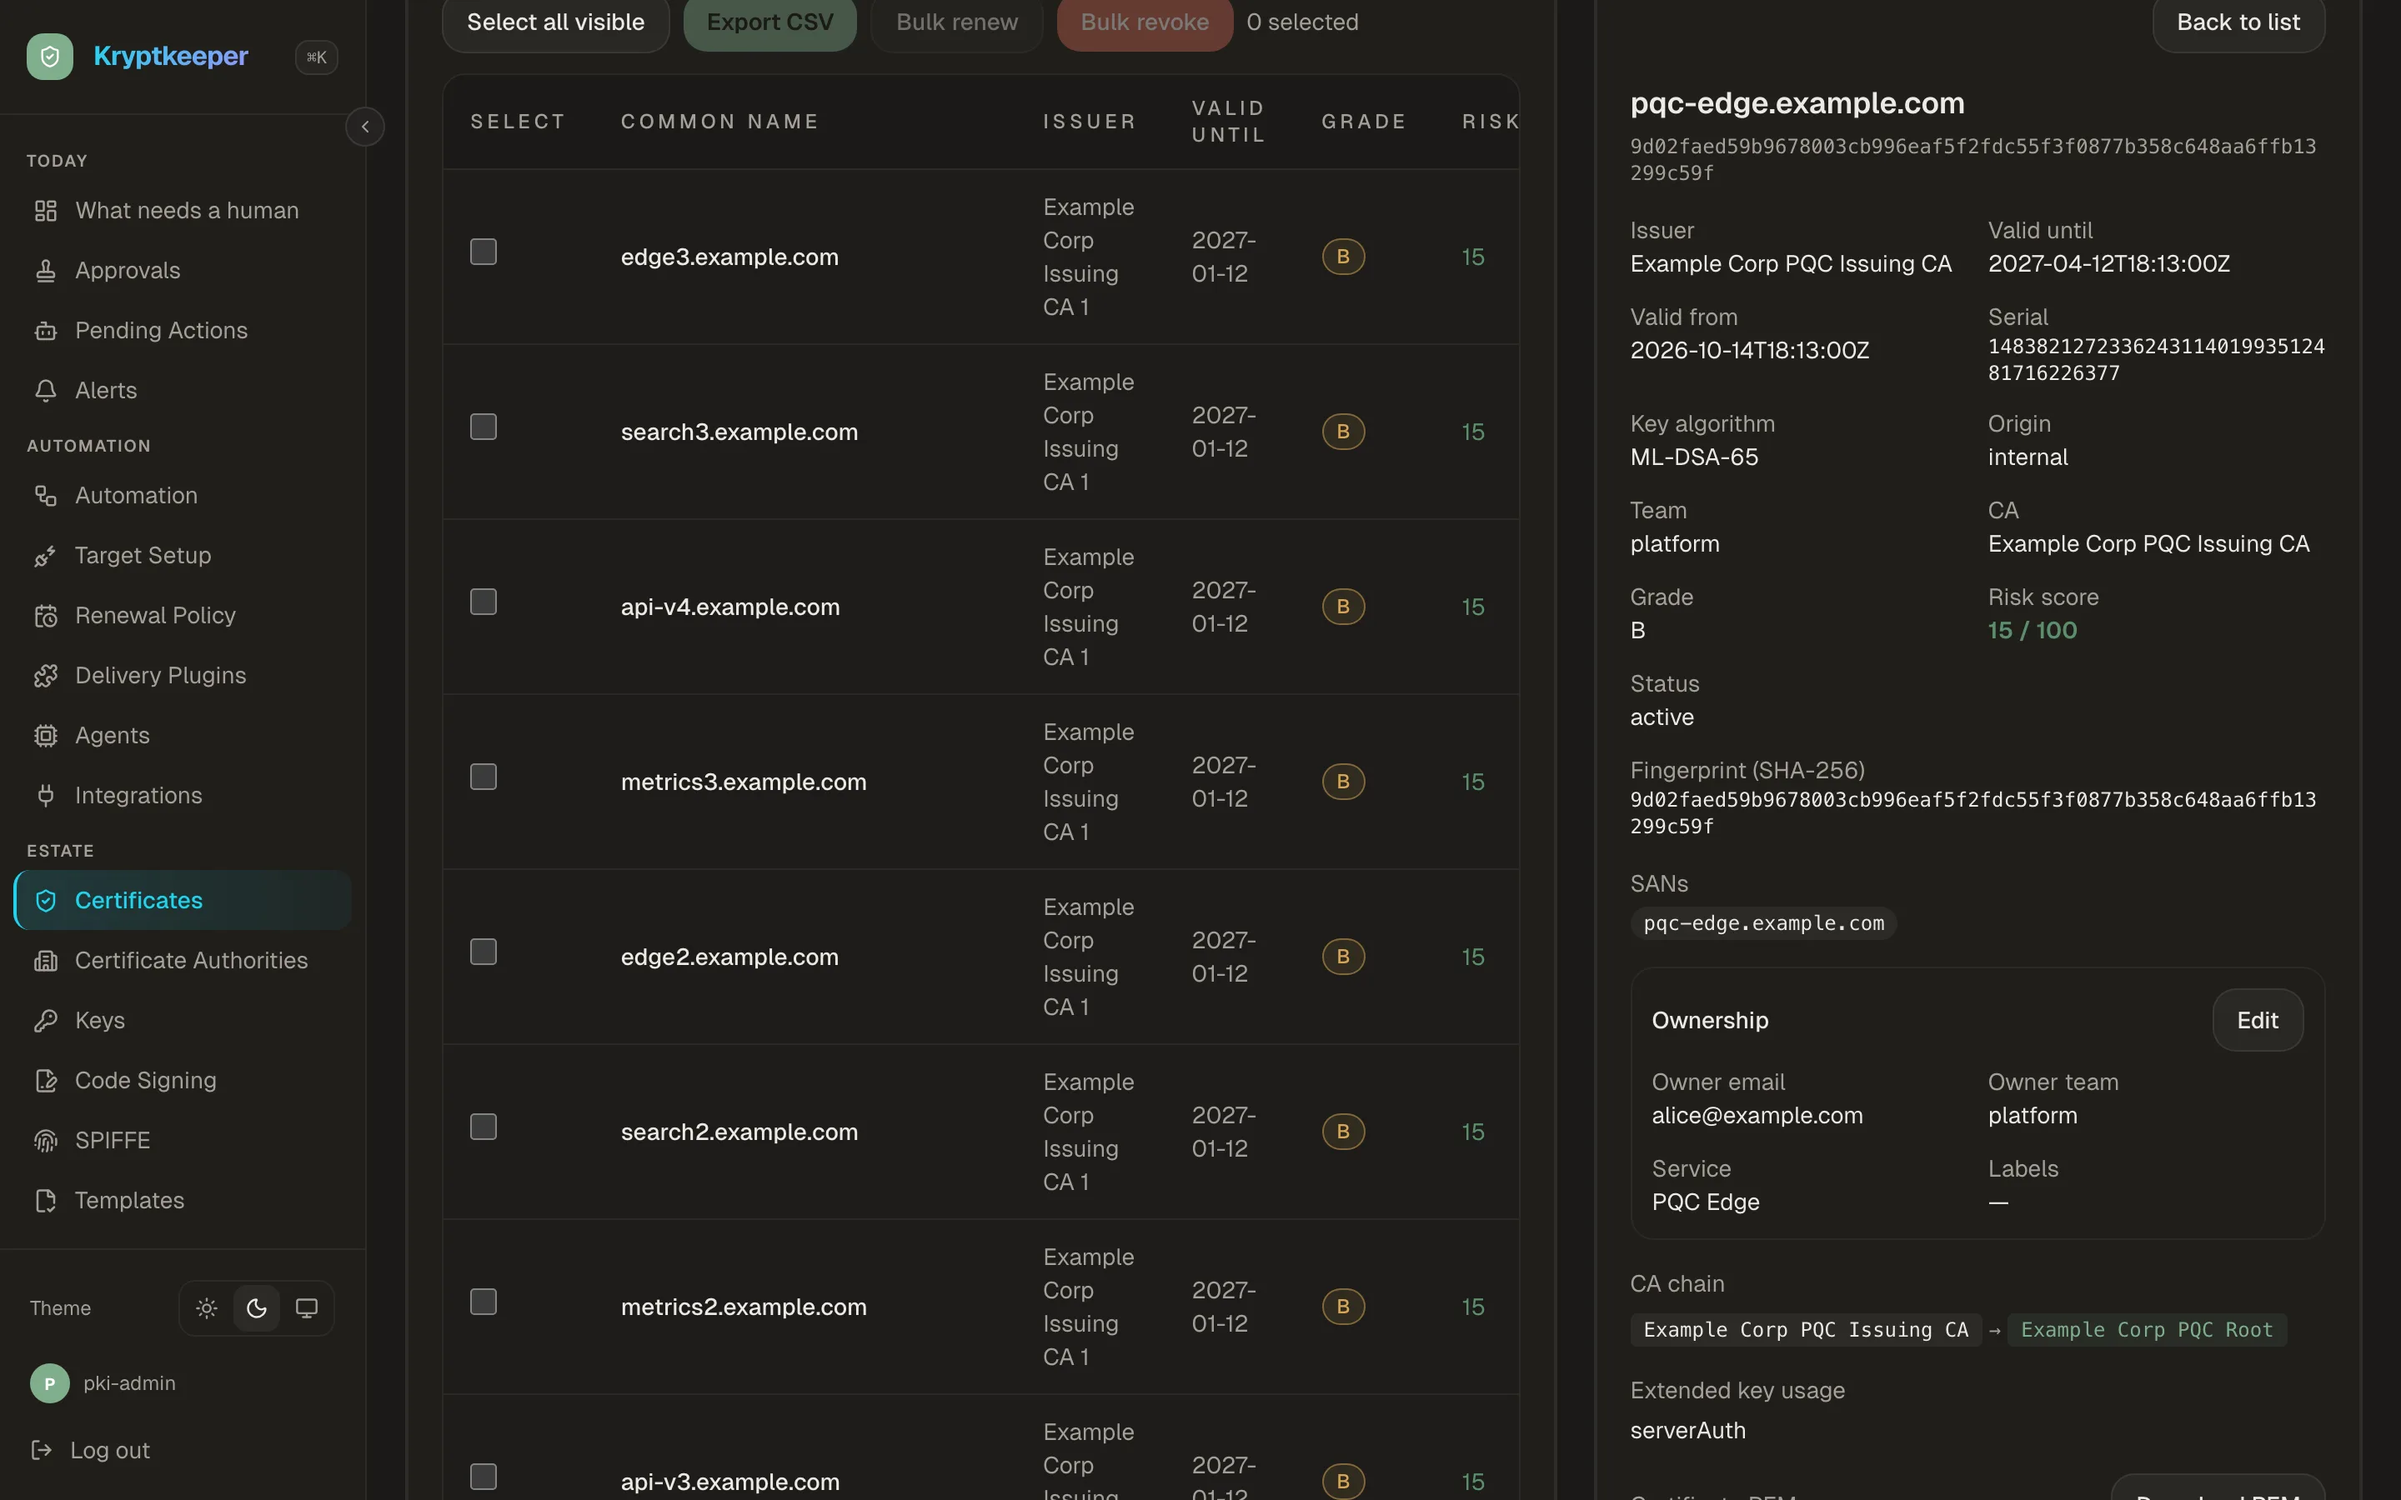
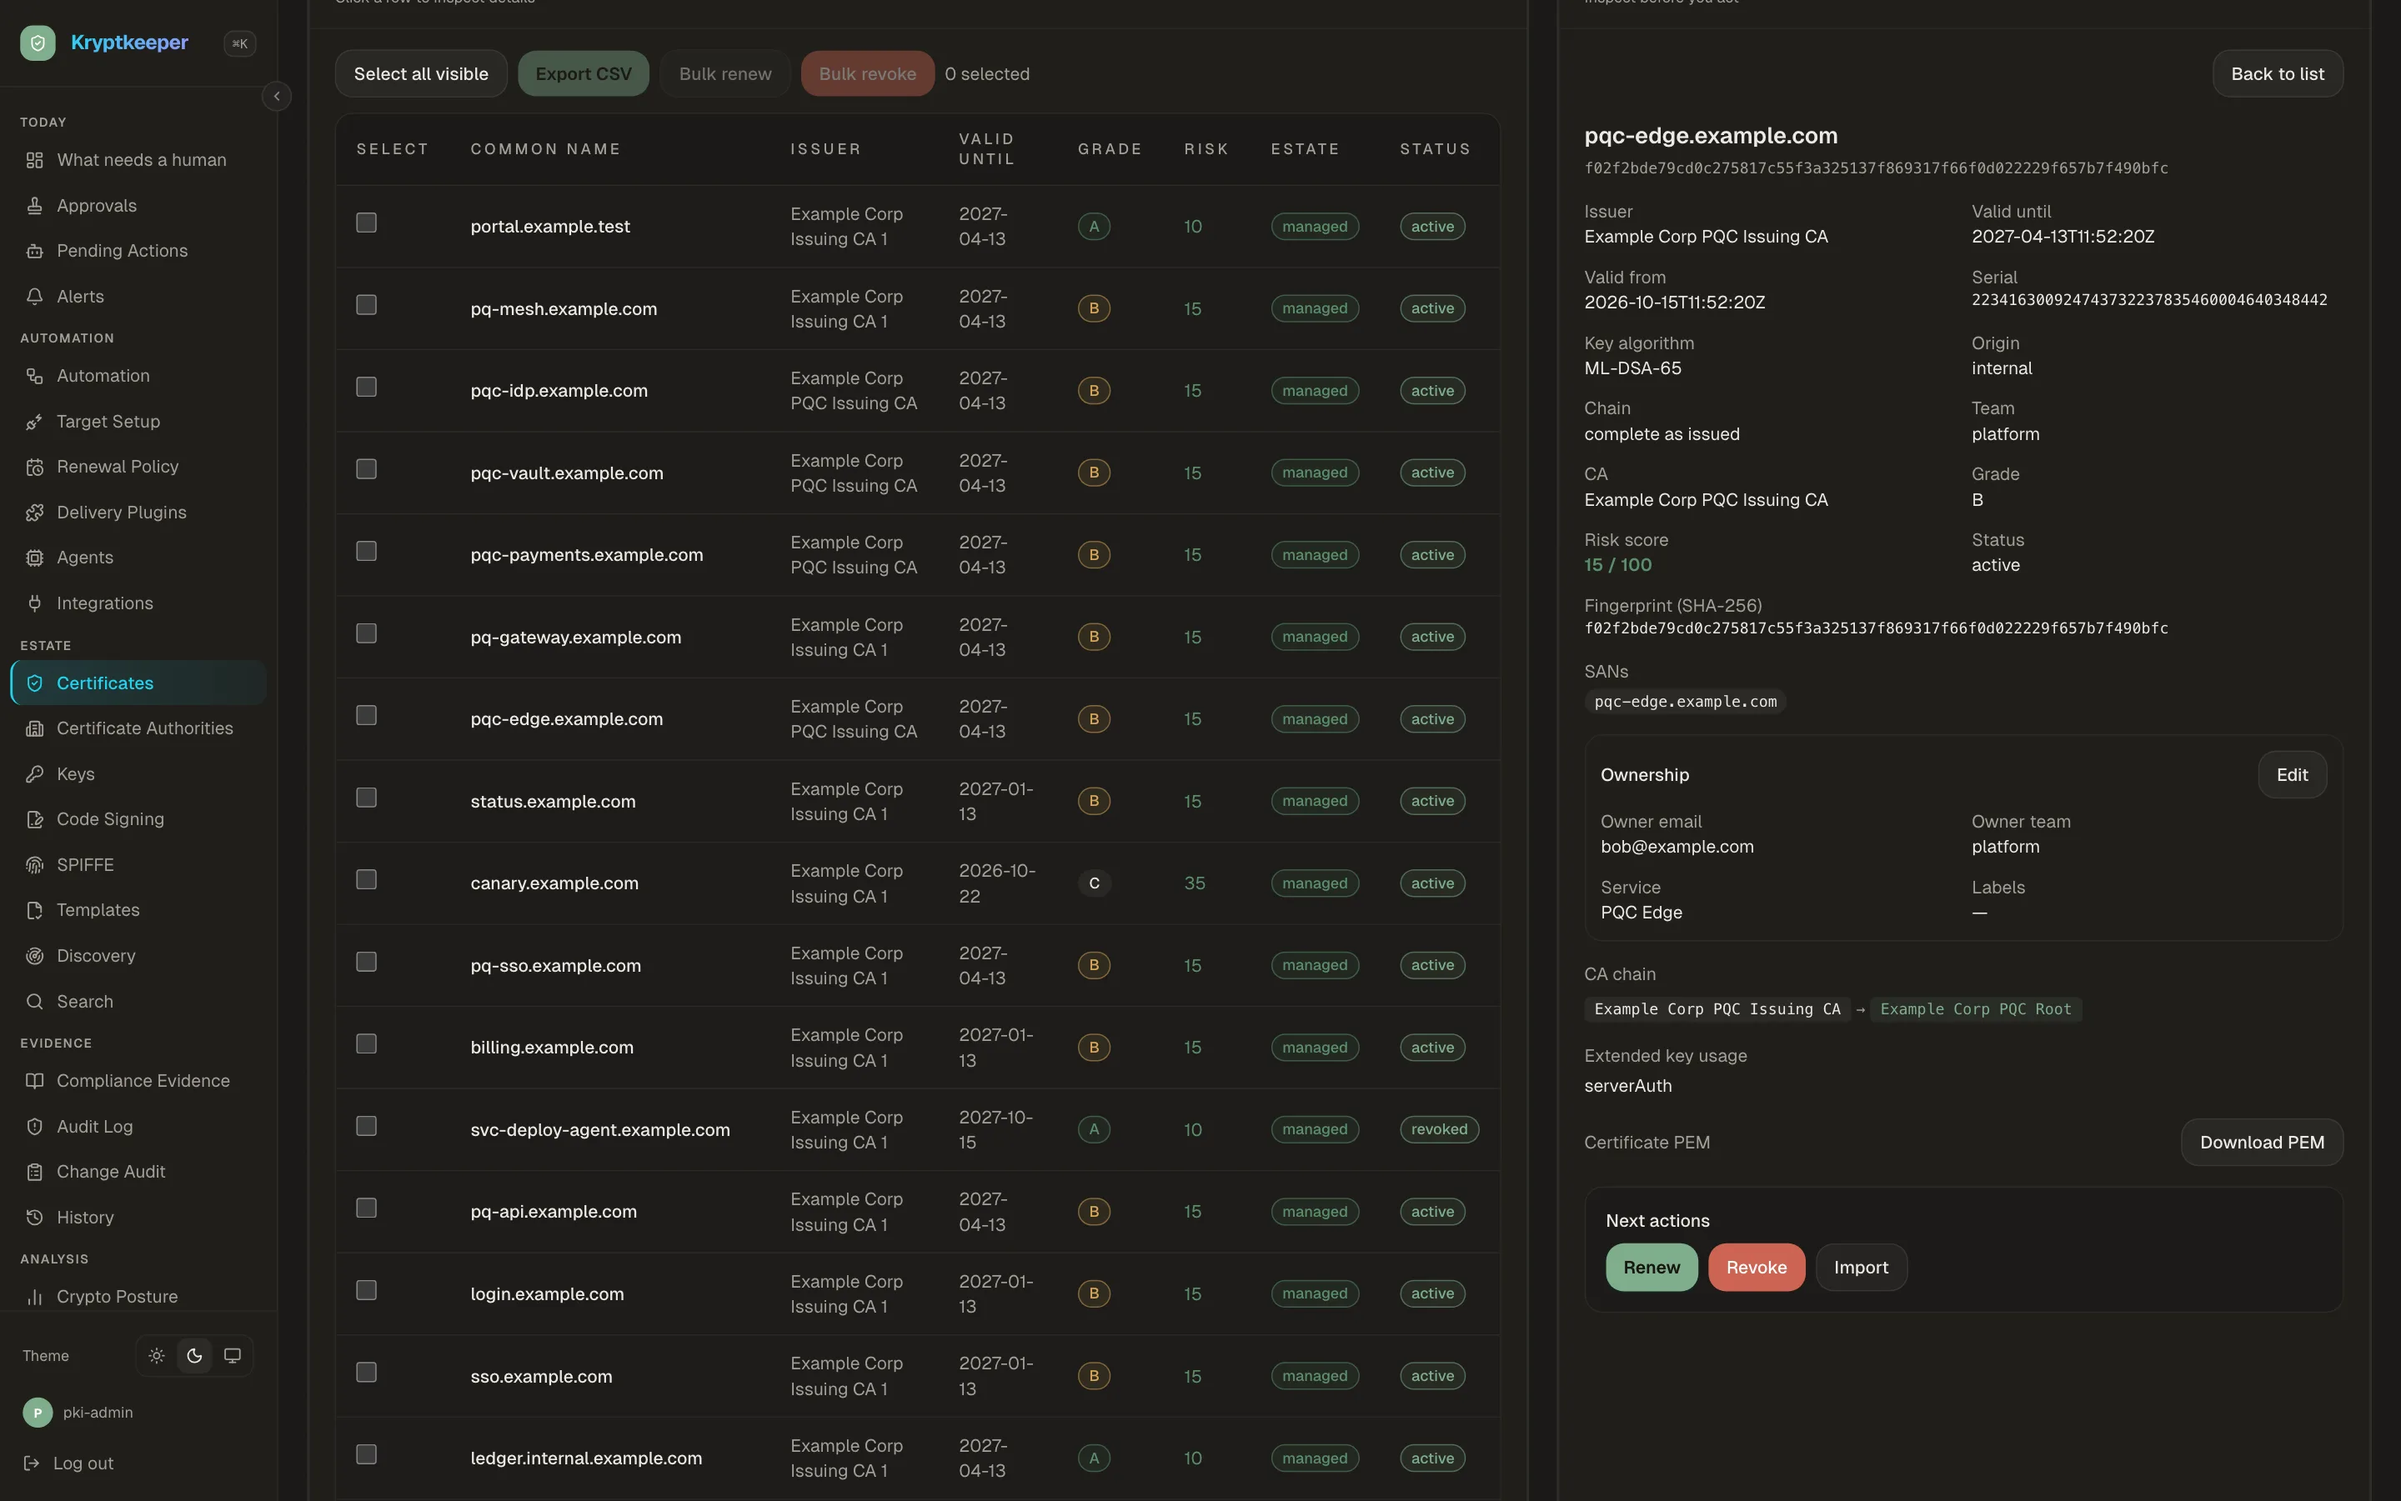
site: v0.9.3 — discovery chapter, recaptured screens, updated copy

diff --git a/site/tour.html b/site/tour.html
@@ -37,7 +37,7 @@
 <div class="tour-intro">
   <span class="label">Product tour</span>
   <h1>Kryptkeeper in use</h1>
-  <p>Screens from a Kryptkeeper v0.9.1 hub running a small example estate: a classical and a post-quantum CA chain, templates, and about fifty certificates owned by three teams.</p>
+  <p>Screens from a Kryptkeeper v0.9.3 hub running a small example estate: a classical and a post-quantum CA chain, about fifty certificates owned by three teams, and ten servers found by a network scan.</p>
   <p class="note">All names are examples. Select a screen to open it full size.</p>
 </div>
 <section class="chapter">
@@ -50,7 +50,7 @@
     <figcaption>
       <h3>What needs a human</h3>
       <span class="route">/</span>
-      <p>Expiring, expired and risky certificates and endpoints on one screen, with a 90-day outlook. Anything that will not renew itself is called out at the top.</p>
+      <p>Expiring, expired and risky certificates and endpoints on one screen, with a 90-day outlook and a count of what the network scan found by issuer. Anything that will not renew itself is called out at the top.</p>
     </figcaption>
     <div class="frame">
       <div class="bar"><i></i><i></i><i></i><span>kryptkeeper.example.com/</span></div>
@@ -101,7 +101,7 @@
     <figcaption>
       <h3>CA hierarchy</h3>
       <span class="route">/cas</span>
-      <p>Classical and post-quantum roots with their issuing CAs as a trust tree, with status and how many live certificates each has issued.</p>
+      <p>Classical and post-quantum roots with their issuing CAs as a trust tree, with status and how many active certificates each has issued.</p>
     </figcaption>
     <div class="frame">
       <div class="bar"><i></i><i></i><i></i><span>kryptkeeper.example.com/cas</span></div>
@@ -119,15 +119,44 @@
       <a href="screens/05-templates.webp"><img src="screens/05-templates.webp" width="2880" height="1800" loading="lazy" decoding="async" alt="Kryptkeeper Certificate templates screen"></a>
     </div>
   </figure>
+</section>
+<section class="chapter">
+  <header>
+    <span class="label">Discovery</span>
+    <h2>Find the certificates you didn't know about</h2>
+    <p class="muted">Scan hosts and subnets. Every certificate found goes into the inventory, labelled by who issued it and what is wrong with it.</p>
+  </header>
   <figure class="shot">
     <figcaption>
-      <h3>Discovery</h3>
+      <h3>Endpoints and posture</h3>
       <span class="route">/discovery</span>
-      <p>Network scans find TLS endpoints by hostname and score their risk. Here an expired, RSA-1024, TLS 1.2-only host stands out at 80.</p>
+      <p>Every endpoint with its issuer and the findings that make it risky: an untrusted root, a hostname mismatch, an expired or weak certificate, an old TLS version, or a port that isn't TLS at all.</p>
     </figcaption>
     <div class="frame">
       <div class="bar"><i></i><i></i><i></i><span>kryptkeeper.example.com/discovery</span></div>
-      <a href="screens/07-discovery.webp"><img src="screens/07-discovery.webp" width="2880" height="1800" loading="lazy" decoding="async" alt="Kryptkeeper Discovery screen"></a>
+      <a href="screens/07-discovery.webp"><img src="screens/07-discovery.webp" width="2880" height="1800" loading="lazy" decoding="async" alt="Kryptkeeper Endpoints and posture screen"></a>
+    </div>
+  </figure>
+  <figure class="shot">
+    <figcaption>
+      <h3>A risky endpoint</h3>
+      <span class="route">/discovery</span>
+      <p>Open an endpoint to see the negotiated protocol, the findings and the certificate behind it. This one only offers TLS 1.1 with a CBC cipher.</p>
+    </figcaption>
+    <div class="frame">
+      <div class="bar"><i></i><i></i><i></i><span>kryptkeeper.example.com/discovery</span></div>
+      <a href="screens/07b-discovery-detail.webp"><img src="screens/07b-discovery-detail.webp" width="2880" height="1800" loading="lazy" decoding="async" alt="Kryptkeeper A risky endpoint screen"></a>
+    </div>
+  </figure>
+  <figure class="shot">
+    <figcaption>
+      <h3>Inventory by issuer</h3>
+      <span class="route">/certificates</span>
+      <p>Certificates found on the network sit in the inventory next to the ones you manage. Filter by issuer to see everything another private CA has issued.</p>
+    </figcaption>
+    <div class="frame">
+      <div class="bar"><i></i><i></i><i></i><span>kryptkeeper.example.com/certificates</span></div>
+      <a href="screens/07c-inventory-by-issuer.webp"><img src="screens/07c-inventory-by-issuer.webp" width="2880" height="1800" loading="lazy" decoding="async" alt="Kryptkeeper Inventory by issuer screen"></a>
     </div>
   </figure>
 </section>
@@ -217,6 +246,17 @@
       <a href="screens/11-compliance-evidence.webp"><img src="screens/11-compliance-evidence.webp" width="2880" height="1800" loading="lazy" decoding="async" alt="Kryptkeeper Compliance evidence screen"></a>
     </div>
   </figure>
+  <figure class="shot">
+    <figcaption>
+      <h3>Audit log</h3>
+      <span class="route">/audit</span>
+      <p>An append-only record of every issue, revoke and approval decision, named by certificate and template, with read-only noise hidden.</p>
+    </figcaption>
+    <div class="frame">
+      <div class="bar"><i></i><i></i><i></i><span>kryptkeeper.example.com/audit</span></div>
+      <a href="screens/10-audit-log.webp"><img src="screens/10-audit-log.webp" width="2880" height="1800" loading="lazy" decoding="async" alt="Kryptkeeper Audit log screen"></a>
+    </div>
+  </figure>
 </section>
 <section class="chapter">
   <header>
@@ -226,7 +266,7 @@
   </header>
   <div class="cta" style="margin-top:0">
     <a class="btn primary" href="/#install">Quick start</a>
-    <a class="btn" href="https://github.com/bpmforge/kryptkeeper/releases/tag/v0.9.1">Download v0.9.1</a>
+    <a class="btn" href="https://github.com/bpmforge/kryptkeeper/releases/tag/v0.9.3">Download v0.9.3</a>
   </div>
 </section>
 </main>

diff --git a/site/index.html b/site/index.html
@@ -40,7 +40,7 @@
     <h1 style="margin-top:1rem">Run your own certificate authority, and stop finding out about expiry from an outage.</h1>
     <p class="lede">Kryptkeeper is a self-hosted CA and certificate lifecycle platform. It issues over ACME, EST, SCEP, CMP and Windows autoenrollment, finds the certificates you didn't know about, and renews and installs them without a person in the loop.</p>
     <div class="cta">
-      <a class="btn primary" href="https://github.com/bpmforge/kryptkeeper/releases/tag/v0.9.1">Download v0.9.1</a>
+      <a class="btn primary" href="https://github.com/bpmforge/kryptkeeper/releases/tag/v0.9.3">Download v0.9.3</a>
       <a class="btn" href="https://github.com/bpmforge/kryptkeeper">View on GitHub</a>
       <a class="btn" href="tour.html">See it in action</a>
     </div>
@@ -87,7 +87,7 @@
     </div>
     <div class="cap">
       <h3>Discovery and inventory</h3>
-      <p>Network TLS scanning with ML-KEM detection, Kubernetes and service-mesh discovery, agentless WinRM discovery, CT log monitoring and a cloud key inventory.</p>
+      <p>Scans hosts and subnets for every TLS endpoint, puts the certificates it finds into the inventory, and labels whose each one is: yours, public, another private CA or self-signed. Flags expired, weak, mismatched, untrusted and incomplete chains, old TLS versions and ports that aren't TLS at all. Also Kubernetes, service-mesh, WinRM, CT log and cloud key discovery.</p>
     </div>
     <div class="cap">
       <h3>Windows autoenrollment</h3>
@@ -149,9 +149,9 @@ docker compose up -d</pre>
       <p>Checksums and images are signed keyless with Sigstore cosign, bound to the GitHub release workflow. There is no long-lived signing key to fetch or trust.</p>
       <div class="code">
         <button class="copy" type="button" data-copy="vf">Copy</button>
-<pre id="vf">cosign verify ghcr.io/bpmforge/kryptkeeper:0.9.1 \
+<pre id="vf">cosign verify ghcr.io/bpmforge/kryptkeeper:0.9.3 \
   --certificate-identity \
-  "https://github.com/bpmforge/kryptkeeper/.github/workflows/release.yml@refs/tags/v0.9.1" \
+  "https://github.com/bpmforge/kryptkeeper/.github/workflows/release.yml@refs/tags/v0.9.3" \
   --certificate-oidc-issuer \
   "https://token.actions.githubusercontent.com"</pre>
       </div>
@@ -162,7 +162,7 @@ docker compose up -d</pre>
 
 <section id="maturity">
   <div class="section-head">
-    <span class="label">v0.9.1 status</span>
+    <span class="label">v0.9.3 status</span>
     <h2>What's proven, what's beta</h2>
     <p class="muted">The version number is below 1.0 on purpose. Each area is labelled by how it was tested: validated means run against real clients, not only unit tests.</p>
   </div>
@@ -175,6 +175,7 @@ docker compose up -d</pre>
         <li>SSH certificates with OpenSSH</li>
         <li>Unattended renewal on nginx and Apache, with rollback</li>
         <li>Windows autoenrollment on a Kerberos lab</li>
+        <li>Network discovery and issuer classification on a 17-host lab</li>
         <li>SQLite and PostgreSQL, including upgrades</li>
       </ul>
     </div>
@@ -194,10 +195,11 @@ docker compose up -d</pre>
         <li>HashiCorp Vault and GCP Cloud KMS key stores</li>
         <li>F5 and Citrix plugins on real devices</li>
         <li>SCEP from network devices</li>
+        <li>Missing intermediates from other private CAs (reported as unknown)</li>
       </ul>
     </div>
   </div>
-  <p class="muted" style="margin-top:1.5rem">Full detail is in the <a href="https://github.com/bpmforge/kryptkeeper/releases/tag/v0.9.1">v0.9.1 release notes</a>.</p>
+  <p class="muted" style="margin-top:1.5rem">Full detail is in the <a href="https://github.com/bpmforge/kryptkeeper/releases/tag/v0.9.3">v0.9.3 release notes</a>.</p>
 </section>
 </main>
 
